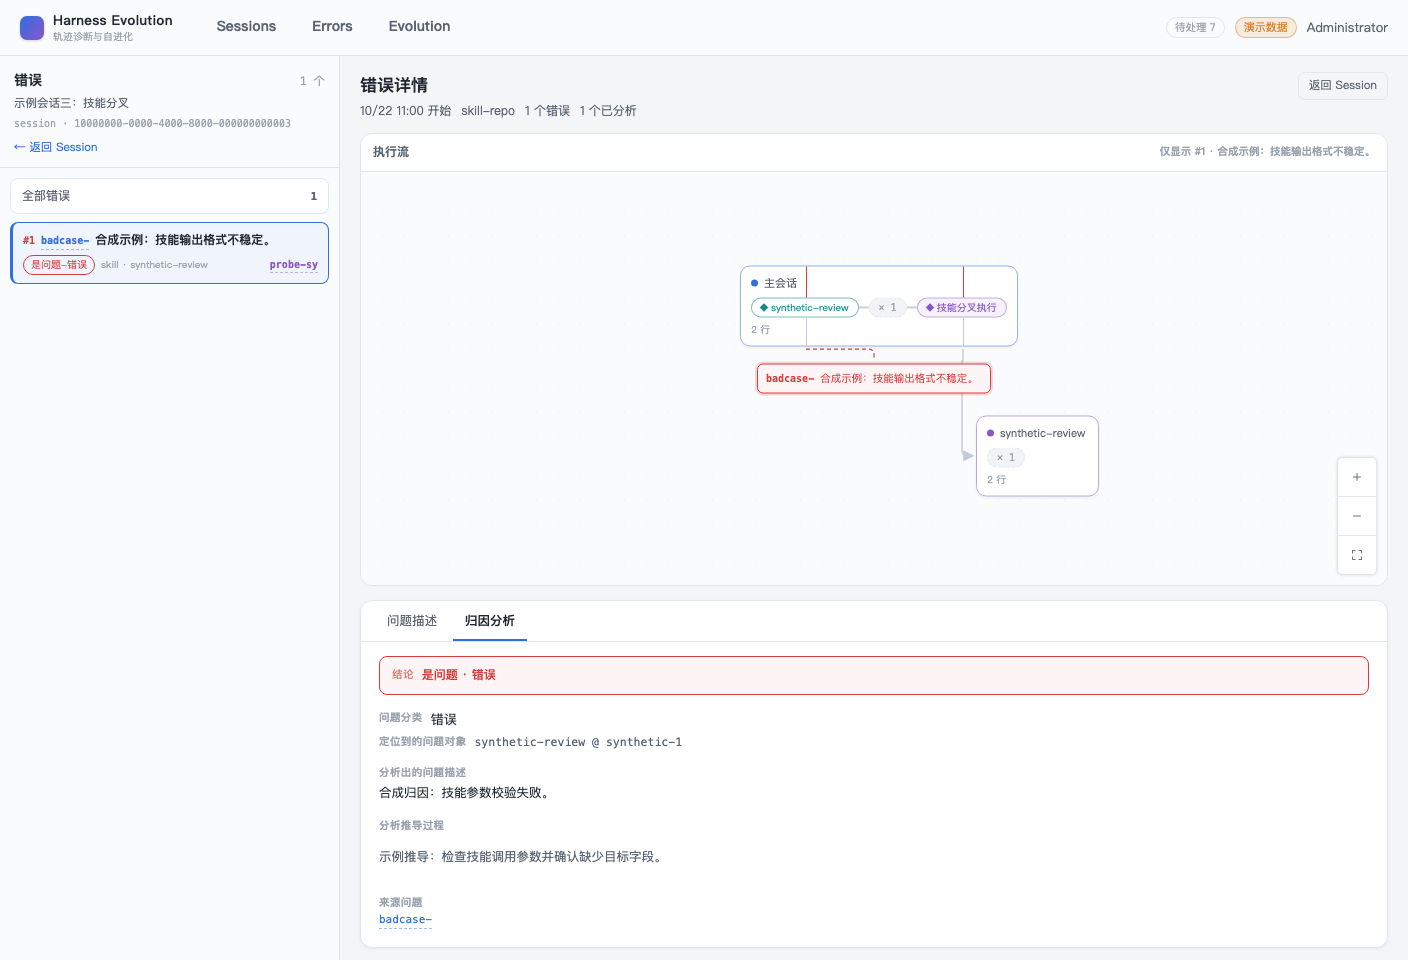
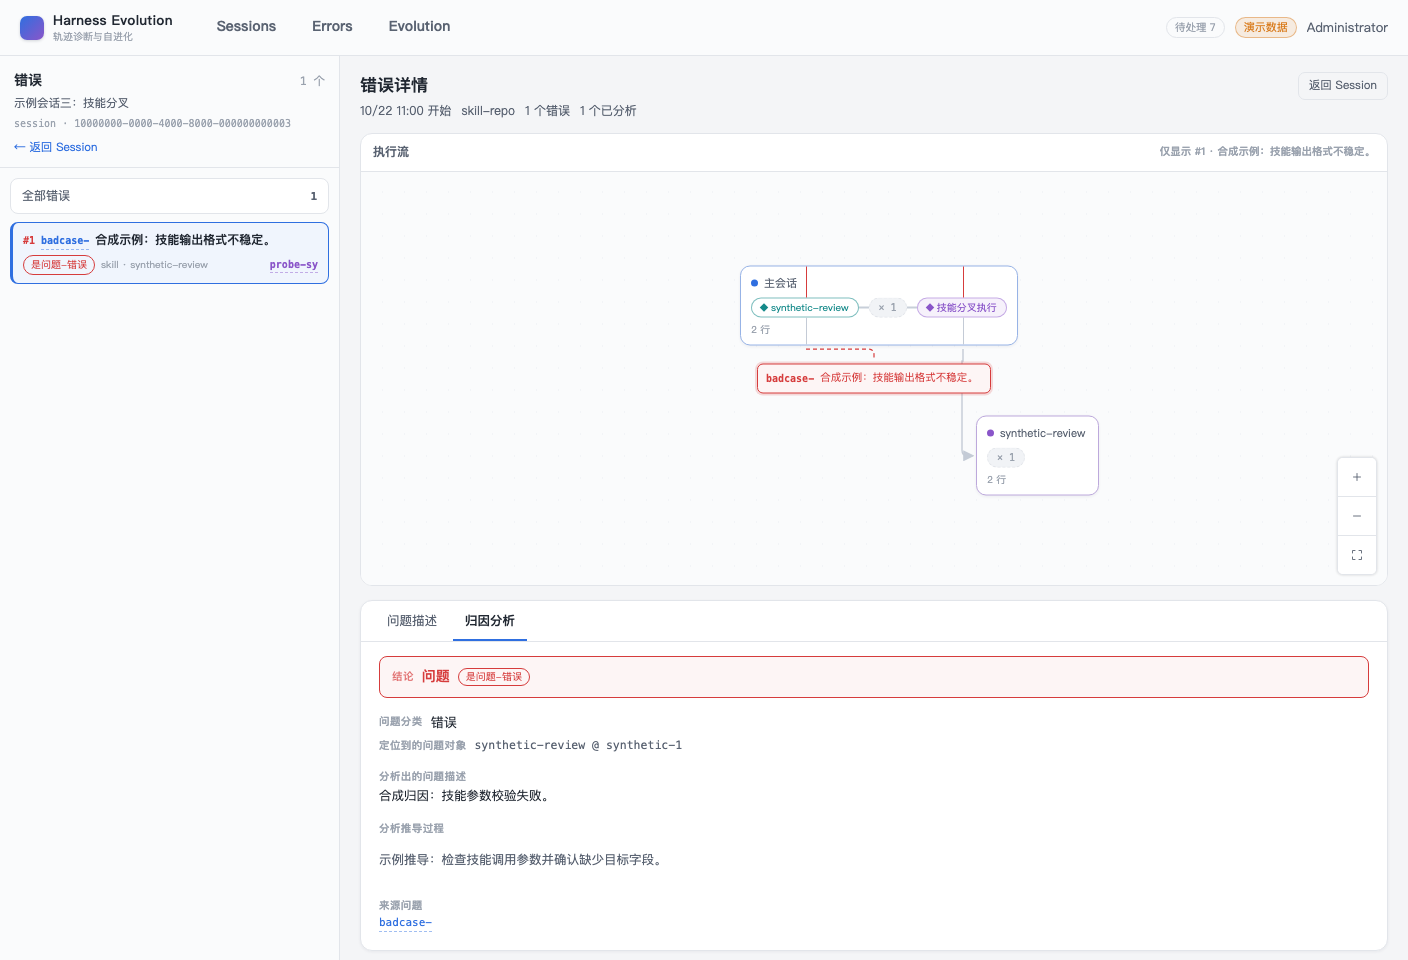
test(web): refresh error detail smoke evidence (#49)

Changed region(s): [[0.25, 0.6875, 0.4688, 0.9062], [0.5938, 0.375, 0.6875, 0.4062], [0.25, 0.9375, 0.3125, 0.9688]]

diff --git a/reports/2026-10-26/m4-04-error-detail/smoke-report.html b/reports/2026-10-26/m4-04-error-detail/smoke-report.html
@@ -75,21 +75,21 @@
 <body>
 <main>
   <header class="hero">
-    <p class="eyebrow">Harness Evolution · PR #120 · validation on f02b08a</p>
+    <p class="eyebrow">Harness Evolution · PR #120 · validation on 13333e7</p>
     <h1>M4-04 错误详情与归因集成冒烟报告</h1>
-    <p class="summary">在临时 SQLite、真实 FastAPI/Vite 与 Google Chrome 上完成错误详情工作台集成验证。冒烟发现并修复跨 Session 409 重复英文 toast、错误卡缺少归因报告深链以及画布泄漏裸布局诊断三项缺陷；修复后 15 个 CDP 场景与 2 个原生 Computer Use 场景全部通过，原型结构、双向联动、深链恢复、加载/错误/重试、归属校验、响应式布局及控制台清洁度均有证据。</p>
+    <p class="summary">在临时 SQLite、真实 FastAPI/Vite 与 Google Chrome 上完成错误详情工作台集成验证。冒烟发现并修复跨 Session 409 重复英文 toast、错误卡缺少归因报告深链以及画布泄漏裸布局诊断三项缺陷；最终提交同时移除原型没有的“问题 ID”标签，并把归因结论改成 14px 结论值与状态 chip。15 个 CDP 场景与 2 个原生 Computer Use 场景全部通过，原型结构、双向联动、深链恢复、加载/错误/重试、归属校验、响应式布局及控制台清洁度均有证据。</p>
     <span class="meta">2026-10-26/27 · macOS · Google Chrome · FastAPI + Vite + SQLite</span>
-    <div class="metrics"><div class="metric"><b>17</b><span>冒烟场景</span></div><div class="metric"><b>17</b><span>通过</span></div><div class="metric"><b>3</b><span>缺陷已修复</span></div><div class="metric"><b>0</b><span>非预期运行时错误</span></div><div class="metric"><b>待 PR</b><span>最终 CI</span></div></div>
+    <div class="metrics"><div class="metric"><b>17</b><span>冒烟场景</span></div><div class="metric"><b>17</b><span>通过</span></div><div class="metric"><b>3</b><span>缺陷已修复</span></div><div class="metric"><b>0</b><span>非预期运行时错误</span></div><div class="metric"><b>待本次 push</b><span>CI</span></div></div>
   </header>
 
   <section>
     <div class="head"><h2>Environment and Artifact</h2><small>2026-10-26/27 · macOS · Google Chrome · FastAPI + Vite + SQLite</small></div>
-    <article class="card"><dl class="facts"><div class="fact"><dt>Issue</dt><dd>#49 · M4-04 error detail</dd></div><div class="fact"><dt>PR</dt><dd>#120</dd></div><div class="fact"><dt>Validation base</dt><dd>f02b08a</dd></div><div class="fact"><dt>Evidence patch</dt><dd>validated before commit; code and tests in f02b08a</dd></div><div class="fact"><dt>Runtime</dt><dd>FastAPI + Vite + Google Chrome</dd></div><div class="fact"><dt>Database</dt><dd>临时 SQLite fixture</dd></div><div class="fact"><dt>Evidence</dt><dd>CDP 集成断言 + 最终代码上的原生 Computer Use 截图</dd></div><div class="fact"><dt>Native capture</dt><dd>08/09 已按最终两行卡片和无诊断画布重采</dd></div></dl></article>
+    <article class="card"><dl class="facts"><div class="fact"><dt>Issue</dt><dd>#49 · M4-04 error detail</dd></div><div class="fact"><dt>PR</dt><dd>#120</dd></div><div class="fact"><dt>Validation base</dt><dd>13333e7</dd></div><div class="fact"><dt>Evidence patch</dt><dd>final smoke report on 13333e7</dd></div><div class="fact"><dt>CI</dt><dd>GitHub Actions validates the evidence commit after push</dd></div><div class="fact"><dt>Runtime</dt><dd>FastAPI + Vite + Google Chrome</dd></div><div class="fact"><dt>Database</dt><dd>临时 SQLite fixture</dd></div><div class="fact"><dt>Evidence</dt><dd>CDP 集成断言 + 最终代码上的原生 Computer Use 截图</dd></div><div class="fact"><dt>Native capture</dt><dd>08/09 已按最终两行卡片和无诊断画布重采</dd></div></dl></article>
   </section>
 
   <section>
     <div class="head"><h2>Scenario Matrix</h2><small>16 pass · 1 fixed</small></div>
-    <div class="tableWrap"><table><thead><tr><th>#</th><th>场景</th><th>结果</th><th>观测</th><th>证据</th></tr></thead><tbody><tr><td class="num">01</td><td>五种问题状态</td><td><span class="status pass">PASS</span></td><td>真实 fixture 返回未分析、非问题、模型、prompt、错误五态。</td><td class="evidence">API displayState 集合断言</td></tr><tr><td class="num">02</td><td>1408px 原型布局</td><td><span class="status pass">PASS</span></td><td>340px 左栏与完整执行流同屏；compact 错误卡按原型显示两行和归因报告深链；正式画布无裸诊断 code，且无横向溢出。</td><td class="evidence">screenshots/10-before-card-and-diagnostics.png<br>screenshots/01-errors-all-1408.png</td></tr><tr><td class="num">03</td><td>选中问题过滤执行流</td><td><span class="status pass">PASS</span></td><td>问题卡与画布共享 case 状态；选中后只剩该问题卡，reason 仅显示一次。</td><td class="evidence">screenshots/02-selected-description.png</td></tr><tr><td class="num">04</td><td>描述深链刷新恢复</td><td><span class="status pass">PASS</span></td><td>刷新后 case、desc 页签与过滤执行流均恢复。</td><td class="evidence">CDP Page.reload + URL/ARIA 断言</td></tr><tr><td class="num">05</td><td>归因顺序与安全深链</td><td><span class="status pass">PASS</span></td><td>结论不重复正文；分类和根因对象只出现一次；来源问题安全新窗口回 desc；Markdown 可见。</td><td class="evidence">screenshots/03-attribution.png</td></tr><tr><td class="num">06</td><td>归因深链刷新恢复</td><td><span class="status pass">PASS</span></td><td>刷新后 tab=attr 与当前 case 保持一致，归因页签仍为选中态。</td><td class="evidence">CDP Page.reload + aria-selected 断言</td></tr><tr><td class="num">07</td><td>全部错误恢复全图</td><td><span class="status pass">PASS</span></td><td>清除 case/tab 后画布恢复全部问题卡，详情区回到未选择空态。</td><td class="evidence">URL query 为空 + 问题卡数量断言</td></tr><tr><td class="num">08</td><td>画布 → 列表双向选择</td><td><span class="status pass">PASS</span></td><td>点击执行流问题卡后 URL 与左栏选中态同步；列表选择方向也已验证。</td><td class="evidence">画布问题卡点击 + aria-pressed 断言</td></tr><tr><td class="num">09</td><td>全局空态</td><td><span class="status pass">PASS</span></td><td>无 Session 的错误入口显示“请选择会话”，不伪造问题数据。</td><td class="evidence">screenshots/04-global-empty.png</td></tr><tr><td class="num">10</td><td>加载态</td><td><span class="status pass">PASS</span></td><td>暂停真实 tree 请求时，执行流面板显示可访问的加载骨架。</td><td class="evidence">CDP Fetch.requestPaused + role=status 断言</td></tr><tr><td class="num">11</td><td>错误态</td><td><span class="status pass">PASS</span></td><td>执行流请求失败时显示局部错误与“重试”，其他工作区仍可操作。</td><td class="evidence">screenshots/05-tree-error.png</td></tr><tr><td class="num">12</td><td>重试恢复</td><td><span class="status pass">PASS</span></td><td>点击错误态“重试”后真实执行流恢复，无需刷新整页。</td><td class="evidence">retry 点击 + AgentTree 恢复断言</td></tr><tr><td class="num">13</td><td>跨 Session 409</td><td><span class="status fixed">FAIL → FIXED</span></td><td>修复前同时出现两条后端英文 toast；修复后只显示页级中文不可重试错误，不渲染侧栏、执行流、详情或重复全局提示。</td><td class="evidence">screenshots/06-cross-session-409-before.png<br>screenshots/06-cross-session-409.png</td></tr><tr><td class="num">14</td><td>390px 响应式布局</td><td><span class="status pass">PASS</span></td><td>单列工作台无横向溢出，详情与归因仍可访问。</td><td class="evidence">screenshots/07-mobile-390.png</td></tr><tr><td class="num">15</td><td>Console / network</td><td><span class="status pass">PASS</span></td><td>除刻意验证的 409 与 tree 中断外，无 warning、error 或未捕获异常。</td><td class="evidence">console-summary.txt</td></tr><tr><td class="num">16</td><td>原生 Computer Use · 归因分析</td><td><span class="status pass">PASS</span></td><td>原生 Chrome 完成登录、首次改密和 URL 导航；归因页签、执行流、结论及来源链接均可读。</td><td class="evidence">screenshots/08-native-computer-use-attribution.jpeg</td></tr><tr><td class="num">17</td><td>原生 Computer Use · 页签切换</td><td><span class="status pass">PASS</span></td><td>原生点击“问题描述”后 URL 与原页面选中态同步，8 位问题 ID、归因报告链接和对象信息可见。</td><td class="evidence">screenshots/09-native-computer-use-description.jpeg</td></tr></tbody></table></div>
+    <div class="tableWrap"><table><thead><tr><th>#</th><th>场景</th><th>结果</th><th>观测</th><th>证据</th></tr></thead><tbody><tr><td class="num">01</td><td>五种问题状态</td><td><span class="status pass">PASS</span></td><td>真实 fixture 返回未分析、非问题、模型、prompt、错误五态。</td><td class="evidence">API displayState 集合断言</td></tr><tr><td class="num">02</td><td>1408px 原型布局</td><td><span class="status pass">PASS</span></td><td>340px 左栏与完整执行流同屏；compact 错误卡按原型显示两行和归因报告深链；正式画布无裸诊断 code，且无横向溢出。</td><td class="evidence">screenshots/10-before-card-and-diagnostics.png<br>screenshots/01-errors-all-1408.png</td></tr><tr><td class="num">03</td><td>选中问题过滤执行流</td><td><span class="status pass">PASS</span></td><td>问题卡与画布共享 case 状态；选中后只剩该问题卡，reason 仅显示一次。</td><td class="evidence">screenshots/02-selected-description.png</td></tr><tr><td class="num">04</td><td>描述深链刷新恢复</td><td><span class="status pass">PASS</span></td><td>刷新后 case、desc 页签与过滤执行流均恢复。</td><td class="evidence">CDP Page.reload + URL/ARIA 断言</td></tr><tr><td class="num">05</td><td>归因顺序与安全深链</td><td><span class="status pass">PASS</span></td><td>结论值 14px 并带问题状态 chip；分类和根因对象只出现一次；来源问题安全新窗口回 desc；Markdown 可见。</td><td class="evidence">screenshots/03-attribution.png</td></tr><tr><td class="num">06</td><td>归因深链刷新恢复</td><td><span class="status pass">PASS</span></td><td>刷新后 tab=attr 与当前 case 保持一致，归因页签仍为选中态。</td><td class="evidence">CDP Page.reload + aria-selected 断言</td></tr><tr><td class="num">07</td><td>全部错误恢复全图</td><td><span class="status pass">PASS</span></td><td>清除 case/tab 后画布恢复全部问题卡，详情区回到未选择空态。</td><td class="evidence">URL query 为空 + 问题卡数量断言</td></tr><tr><td class="num">08</td><td>画布 → 列表双向选择</td><td><span class="status pass">PASS</span></td><td>点击执行流问题卡后 URL 与左栏选中态同步；列表选择方向也已验证。</td><td class="evidence">画布问题卡点击 + aria-pressed 断言</td></tr><tr><td class="num">09</td><td>全局空态</td><td><span class="status pass">PASS</span></td><td>无 Session 的错误入口显示“请选择会话”，不伪造问题数据。</td><td class="evidence">screenshots/04-global-empty.png</td></tr><tr><td class="num">10</td><td>加载态</td><td><span class="status pass">PASS</span></td><td>暂停真实 tree 请求时，执行流面板显示可访问的加载骨架。</td><td class="evidence">CDP Fetch.requestPaused + role=status 断言</td></tr><tr><td class="num">11</td><td>错误态</td><td><span class="status pass">PASS</span></td><td>执行流请求失败时显示局部错误与“重试”，其他工作区仍可操作。</td><td class="evidence">screenshots/05-tree-error.png</td></tr><tr><td class="num">12</td><td>重试恢复</td><td><span class="status pass">PASS</span></td><td>点击错误态“重试”后真实执行流恢复，无需刷新整页。</td><td class="evidence">retry 点击 + AgentTree 恢复断言</td></tr><tr><td class="num">13</td><td>跨 Session 409</td><td><span class="status fixed">FAIL → FIXED</span></td><td>修复前同时出现两条后端英文 toast；修复后只显示页级中文不可重试错误，不渲染侧栏、执行流、详情或重复全局提示。</td><td class="evidence">screenshots/06-cross-session-409-before.png<br>screenshots/06-cross-session-409.png</td></tr><tr><td class="num">14</td><td>390px 响应式布局</td><td><span class="status pass">PASS</span></td><td>单列工作台无横向溢出，详情与归因仍可访问。</td><td class="evidence">screenshots/07-mobile-390.png</td></tr><tr><td class="num">15</td><td>Console / network</td><td><span class="status pass">PASS</span></td><td>除刻意验证的 409 与 tree 中断外，无 warning、error 或未捕获异常。</td><td class="evidence">console-summary.txt</td></tr><tr><td class="num">16</td><td>原生 Computer Use · 归因分析</td><td><span class="status pass">PASS</span></td><td>原生 Chrome 完成登录、首次改密和 URL 导航；归因页签、执行流、结论及来源链接均可读。</td><td class="evidence">screenshots/08-native-computer-use-attribution.jpeg</td></tr><tr><td class="num">17</td><td>原生 Computer Use · 页签切换</td><td><span class="status pass">PASS</span></td><td>原生点击“问题描述”后 URL 与原页面选中态同步，8 位问题 ID、归因报告链接和对象信息可见。</td><td class="evidence">screenshots/09-native-computer-use-description.jpeg</td></tr></tbody></table></div>
   </section>
 
   <section>
@@ -99,12 +99,12 @@
 
   <section>
     <div class="head"><h2>Evidence</h2><small>11 screenshots</small></div>
-    <div class="shots"><figure class="wide"><img loading="lazy" src="screenshots/10-before-card-and-diagnostics.png" alt="修复前错误卡缺少报告 ID 且画布显示裸诊断 code"><figcaption><b>02a · 原型差异修复前</b><span>左栏缺少归因报告深链，执行流同时泄漏 MISSING_PARENT_EVENT。</span></figcaption></figure><figure class="wide"><img loading="lazy" src="screenshots/01-errors-all-1408.png" alt="修复后两行错误卡与无诊断泄漏的执行流"><figcaption><b>02b · 原型差异修复后</b><span>状态、对象与归因报告 ID 回到第二行，画布仅保留执行流内容。</span></figcaption></figure><figure class="wide"><img loading="lazy" src="screenshots/02-selected-description.png" alt="选中问题后的问题描述页签"><figcaption><b>02 · 问题描述</b><span>选中问题后执行流只保留对应问题卡，描述内容与真实 ID 正确。</span></figcaption></figure><figure class="wide"><img loading="lazy" src="screenshots/03-attribution.png" alt="选中问题的归因分析页签"><figcaption><b>03 · 归因分析</b><span>结论、分类与根因对象、问题描述、推导和来源问题保持固定顺序。</span></figcaption></figure><figure class="wide"><img loading="lazy" src="screenshots/04-global-empty.png" alt="未选择 Session 的全局错误入口空态"><figcaption><b>04 · 全局空态</b><span>无 Session 时提示“请选择会话”。</span></figcaption></figure><figure class="wide"><img loading="lazy" src="screenshots/05-tree-error.png" alt="执行流请求失败后的局部错误态"><figcaption><b>05 · 错误态</b><span>执行流失败只在图面板呈现错误与重试，其他区域保持可用。</span></figcaption></figure><figure class="issue"><img loading="lazy" src="screenshots/06-cross-session-409-before.png" alt="修复前跨 Session 409 顶部有两条重复英文 toast"><figcaption><b>06a · 修复前</b><span>页面已有中文阻塞错误，同时又出现两条重复英文全局 toast。</span></figcaption></figure><figure class="wide"><img loading="lazy" src="screenshots/06-cross-session-409.png" alt="修复后跨 Session 409 仅显示页级中文错误"><figcaption><b>06b · 修复后</b><span>冲突仅由页级不可重试错误承载，重复英文 toast 已消失。</span></figcaption></figure><figure class="wide"><img loading="lazy" src="screenshots/07-mobile-390.png" alt="390px 视口下的错误详情"><figcaption><b>07 · 390px</b><span>页面切换为单列且无横向溢出。</span></figcaption></figure><figure class="wide"><img loading="lazy" src="screenshots/08-native-computer-use-attribution.jpeg" alt="原生 Google Chrome 中的归因分析页面"><figcaption><b>08 · 原生归因</b><span>Computer Use 在真实 Chrome 中打开 attr 深链，执行流与归因内容均可见。</span></figcaption></figure><figure class="wide"><img loading="lazy" src="screenshots/09-native-computer-use-description.jpeg" alt="原生 Google Chrome 中点击问题描述后的页面"><figcaption><b>09 · 原生页签切换</b><span>Computer Use 点击“问题描述”后 URL 与选中态同步，真实 ID 链接可见。</span></figcaption></figure></div>
+    <div class="shots"><figure class="wide"><img loading="lazy" src="screenshots/10-before-card-and-diagnostics.png" alt="修复前错误卡缺少报告 ID 且画布显示裸诊断 code"><figcaption><b>02a · 原型差异修复前</b><span>左栏缺少归因报告深链，执行流同时泄漏 MISSING_PARENT_EVENT。</span></figcaption></figure><figure class="wide"><img loading="lazy" src="screenshots/01-errors-all-1408.png" alt="修复后两行错误卡与无诊断泄漏的执行流"><figcaption><b>02b · 原型差异修复后</b><span>状态、对象与归因报告 ID 回到第二行，画布仅保留执行流内容。</span></figcaption></figure><figure class="wide"><img loading="lazy" src="screenshots/02-selected-description.png" alt="选中问题后的问题描述页签"><figcaption><b>02 · 问题描述</b><span>选中问题后执行流只保留对应问题卡；描述头部直接呈现问题 ID、原因、报告 ID 和状态，没有多余字段标签。</span></figcaption></figure><figure class="wide"><img loading="lazy" src="screenshots/03-attribution.png" alt="选中问题的归因分析页签"><figcaption><b>03 · 归因分析</b><span>14px 结论值与状态 chip、分类与根因对象、问题描述、推导和来源问题保持固定顺序。</span></figcaption></figure><figure class="wide"><img loading="lazy" src="screenshots/04-global-empty.png" alt="未选择 Session 的全局错误入口空态"><figcaption><b>04 · 全局空态</b><span>无 Session 时提示“请选择会话”。</span></figcaption></figure><figure class="wide"><img loading="lazy" src="screenshots/05-tree-error.png" alt="执行流请求失败后的局部错误态"><figcaption><b>05 · 错误态</b><span>执行流失败只在图面板呈现错误与重试，其他区域保持可用。</span></figcaption></figure><figure class="issue"><img loading="lazy" src="screenshots/06-cross-session-409-before.png" alt="修复前跨 Session 409 顶部有两条重复英文 toast"><figcaption><b>06a · 修复前</b><span>页面已有中文阻塞错误，同时又出现两条重复英文全局 toast。</span></figcaption></figure><figure class="wide"><img loading="lazy" src="screenshots/06-cross-session-409.png" alt="修复后跨 Session 409 仅显示页级中文错误"><figcaption><b>06b · 修复后</b><span>冲突仅由页级不可重试错误承载，重复英文 toast 已消失。</span></figcaption></figure><figure class="wide"><img loading="lazy" src="screenshots/07-mobile-390.png" alt="390px 视口下的错误详情"><figcaption><b>07 · 390px</b><span>页面切换为单列且无横向溢出。</span></figcaption></figure><figure class="wide"><img loading="lazy" src="screenshots/08-native-computer-use-attribution.jpeg" alt="原生 Google Chrome 中的归因分析页面"><figcaption><b>08 · 原生归因</b><span>Computer Use 在真实 Chrome 中打开 attr 深链，两行错误卡、14px 结论/状态 chip、执行流与归因内容均可见。</span></figcaption></figure><figure class="wide"><img loading="lazy" src="screenshots/09-native-computer-use-description.jpeg" alt="原生 Google Chrome 中点击问题描述后的页面"><figcaption><b>09 · 原生页签切换</b><span>Computer Use 点击“问题描述”后 URL 与选中态同步；问题 ID、报告 ID 和状态直接呈现，多余“问题 ID”标签已移除。</span></figcaption></figure></div>
   </section>
 
   <section>
     <div class="head"><h2>Automated Coverage Assessment</h2><small>4 areas reviewed</small></div>
-    <div class="tableWrap"><table><thead><tr><th>区域</th><th>覆盖</th><th>结论</th><th>建议</th></tr></thead><tbody><tr><td>错误详情主链路</td><td>CDP + 原生 Computer Use</td><td>五态、列表/画布联动、全部错误恢复、双页签刷新与归属校验均通过。</td><td>后续改动继续保留真实 API + 浏览器双层验证。</td></tr><tr><td>异步状态</td><td>真实 Chrome Fetch 故障注入</td><td>加载、执行流失败和局部重试均被条件断言锁定。</td><td>CI 中继续使用真实请求而非组件桩验证关键三态。</td></tr><tr><td>原型与无障碍</td><td>原生 CUA + CDP 计算样式/ARIA</td><td>亮色布局、340px 左栏、两行错误卡、问题/报告 ID 深链、页签关系与可访问名称符合原型；布局诊断不进入用户界面。</td><td>设计 token 或页签语义变化时复跑 smoke。</td></tr><tr><td>回归门禁</td><td>Vitest + 真实 Chrome E2E + CDP 复测</td><td>单元测试锁定页面处理型 409 不弹 toast、compact 报告深链和诊断不外显；真实 Chrome E2E 与 15/15 CDP 冒烟复测通过。</td><td>以 PR #120 最终 head 的 CI 为准，合并前保持 CI 全绿。</td></tr></tbody></table></div>
+    <div class="tableWrap"><table><thead><tr><th>区域</th><th>覆盖</th><th>结论</th><th>建议</th></tr></thead><tbody><tr><td>错误详情主链路</td><td>CDP + 原生 Computer Use</td><td>五态、列表/画布联动、全部错误恢复、双页签刷新与归属校验均通过。</td><td>后续改动继续保留真实 API + 浏览器双层验证。</td></tr><tr><td>异步状态</td><td>真实 Chrome Fetch 故障注入</td><td>加载、执行流失败和局部重试均被条件断言锁定。</td><td>CI 中继续使用真实请求而非组件桩验证关键三态。</td></tr><tr><td>原型与无障碍</td><td>原生 CUA + CDP 计算样式/ARIA</td><td>亮色布局、340px 左栏、两行错误卡、问题/报告 ID 深链、14px 结论与状态 chip、页签关系及可访问名称符合原型；布局诊断不进入用户界面。</td><td>设计 token 或页签语义变化时复跑 smoke。</td></tr><tr><td>回归门禁</td><td>Vitest + 真实 Chrome E2E + CDP 复测</td><td>单元测试锁定页面处理型 409 不弹 toast、compact 报告深链、诊断不外显、无“问题 ID”标签和归因 banner 原型样式；真实 Chrome E2E 与 15/15 CDP 冒烟复测通过。</td><td>以 PR #120 最终 head 的 CI 为准，合并前保持 CI 全绿。</td></tr></tbody></table></div>
   </section>
 
   <section>
